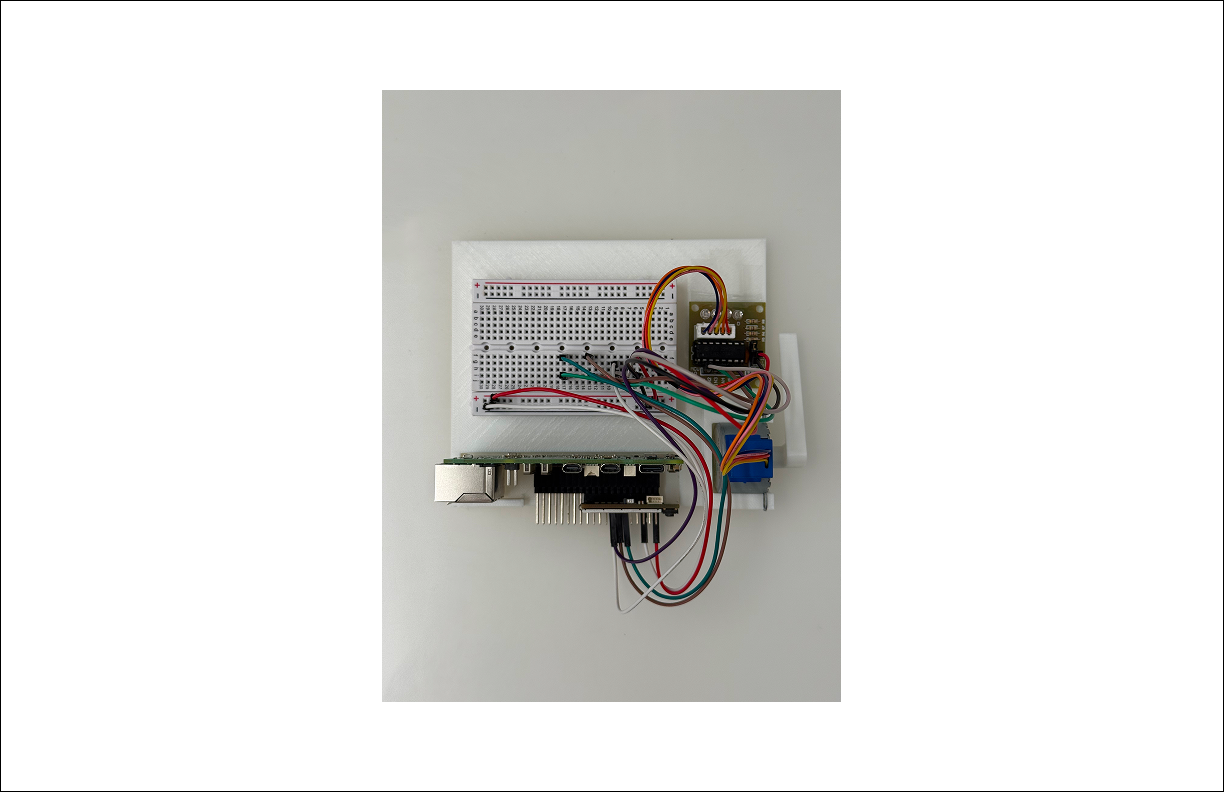
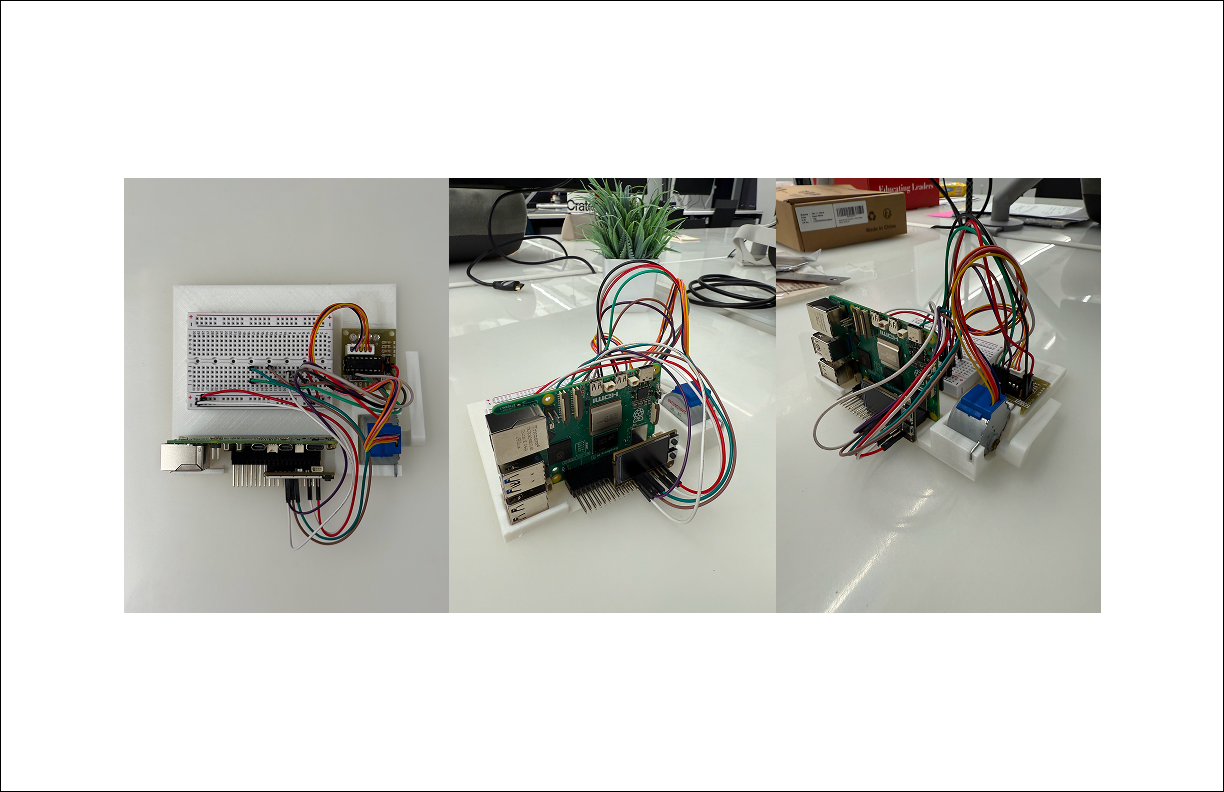
Summarize README.md Lab 2

diff --git a/Lab 2/README.md b/Lab 2/README.md
@@ -266,14 +266,7 @@ _AI Usage:_ Google Gemini generated realistic storyboard renderings; ChatGPT ass
 
 ## Ideation & Individual Brainstorm
 
-I was drawn to Tega Brain’s practice of frustrating modern infrastructures to open up new ways of thinking about time and ecology. Pieces like _Being Radiotropic (2016)_ and _Ecological Time_ imagine clocks governed by organisms or systems outside human control. My initial sketches played with alternative timekeeping: one tracking bird migration patterns, another marking discrete intervals between F-line subway stops.
-
-![Inspiration 1](assets/insp1.png)  
-Tega Brain, _Being Radiotropic_ (2016)
-
-![Inspiration 2](assets/insp2.png)
-![Inspiration 3](assets/insp3.png)  
-Tega Brain, _Ecological Time_
+My initial sketches played with alternative timekeeping: one tracking bird migration patterns, another marking discrete intervals between F-line subway stops.
 
 ![Brainstorm 1](assets/brainstorm1.png)
 ![Brainstorm 2](assets/brainstorm2.png)
@@ -298,10 +291,6 @@ We used the MiniPiTFT for countdown and messaging, paired with a stepper motor h
 ![Process 3](assets/process3.png)
 ![Assembly 1](assets/assembly1.png)
 ![Assembly 2](assets/assembly2.png)
-![Assembly 3](assets/assembly3.png)
-![Assembly 4](assets/assembly4.png)
-![Assembly 5](assets/assembly5.png)
-![Assembly 6](assets/assembly6.png)
 ![View 1](assets/view1.png)
 ![View 2](assets/view2.png)
 ![View 3](assets/view3.png)
@@ -310,15 +299,13 @@ We used the MiniPiTFT for countdown and messaging, paired with a stepper motor h
 
 Code available at [water_alarm_clock.py](https://github.com/thomknoe/INFO-5345/blob/Fall2025/Lab%202/water_alarm_clock.py)
 
-_AI Usage:_ ChatGPT helped write and iterate the code—great at remembering context across revisions for both MiniPiTFT and stepper control.
+_AI Usage:_ ChatGPT helped write the code—great at remembering context across revisions for both MiniPiTFT and stepper control.
 
 _Pros:_ Fast generation, strong contextual memory.
 
-_Cons:_ Got stuck in suggestion loops; completely blind to hardware/wiring issues (our biggest bug turned out to be a physical pin change).
+_Cons:_ Completely blind to hardware/wiring issues (our biggest bug turned out to be a physical pin change).
 
 ## Demonstration Videos
-
-(Replace thumbnail paths with your own screenshots or YouTube auto-thumbnails once uploaded.)
 
 [![Clock Demo 1](assets/clock_demo1.png)](https://youtu.be/2jAuKsEkn1A)
 [Watch Clock Demo 1 on YouTube](https://youtu.be/2jAuKsEkn1A)
@@ -329,9 +316,16 @@ _Cons:_ Got stuck in suggestion loops; completely blind to hardware/wiring issue
 [![Clock Demo 3](assets/clock_demo3.png)](https://youtu.be/iekUGyjbt7Q)
 [Watch Clock Demo 3 on YouTube](https://youtu.be/iekUGyjbt7Q)
 
-## Additional Inspiration
+## Inspiration
 
-Kathleen McDermott’s _Urban Armor #9_ (2019)—a harness that slaps the wearer at 5:00 pm to end the workday—offered a parallel satirical lens on punitive timekeeping objects.
+I was drawn to Tega Brain’s practice of frustrating modern infrastructures to open up new ways of thinking about time and ecology. Pieces like _Being Radiotropic (2016)_ and _Ecological Time_ imagine clocks governed by organisms or systems outside human control. Additioanlly, Kathleen McDermott’s _Urban Armor #9_ (2019)—a harness that slaps the wearer at 5:00 pm to end the workday—offered a parallel satirical lens on punitive timekeeping objects.
+
+![Inspiration 1](assets/insp1.png)  
+Tega Brain, _Being Radiotropic_ (2016)
+
+![Inspiration 2](assets/insp2.png)
+![Inspiration 3](assets/insp3.png)  
+Tega Brain, _Ecological Time_
 
 ![Inspiration 4](assets/insp4.png)
 Kathleen McDermott, _Urban Armor #9_ (2019)
